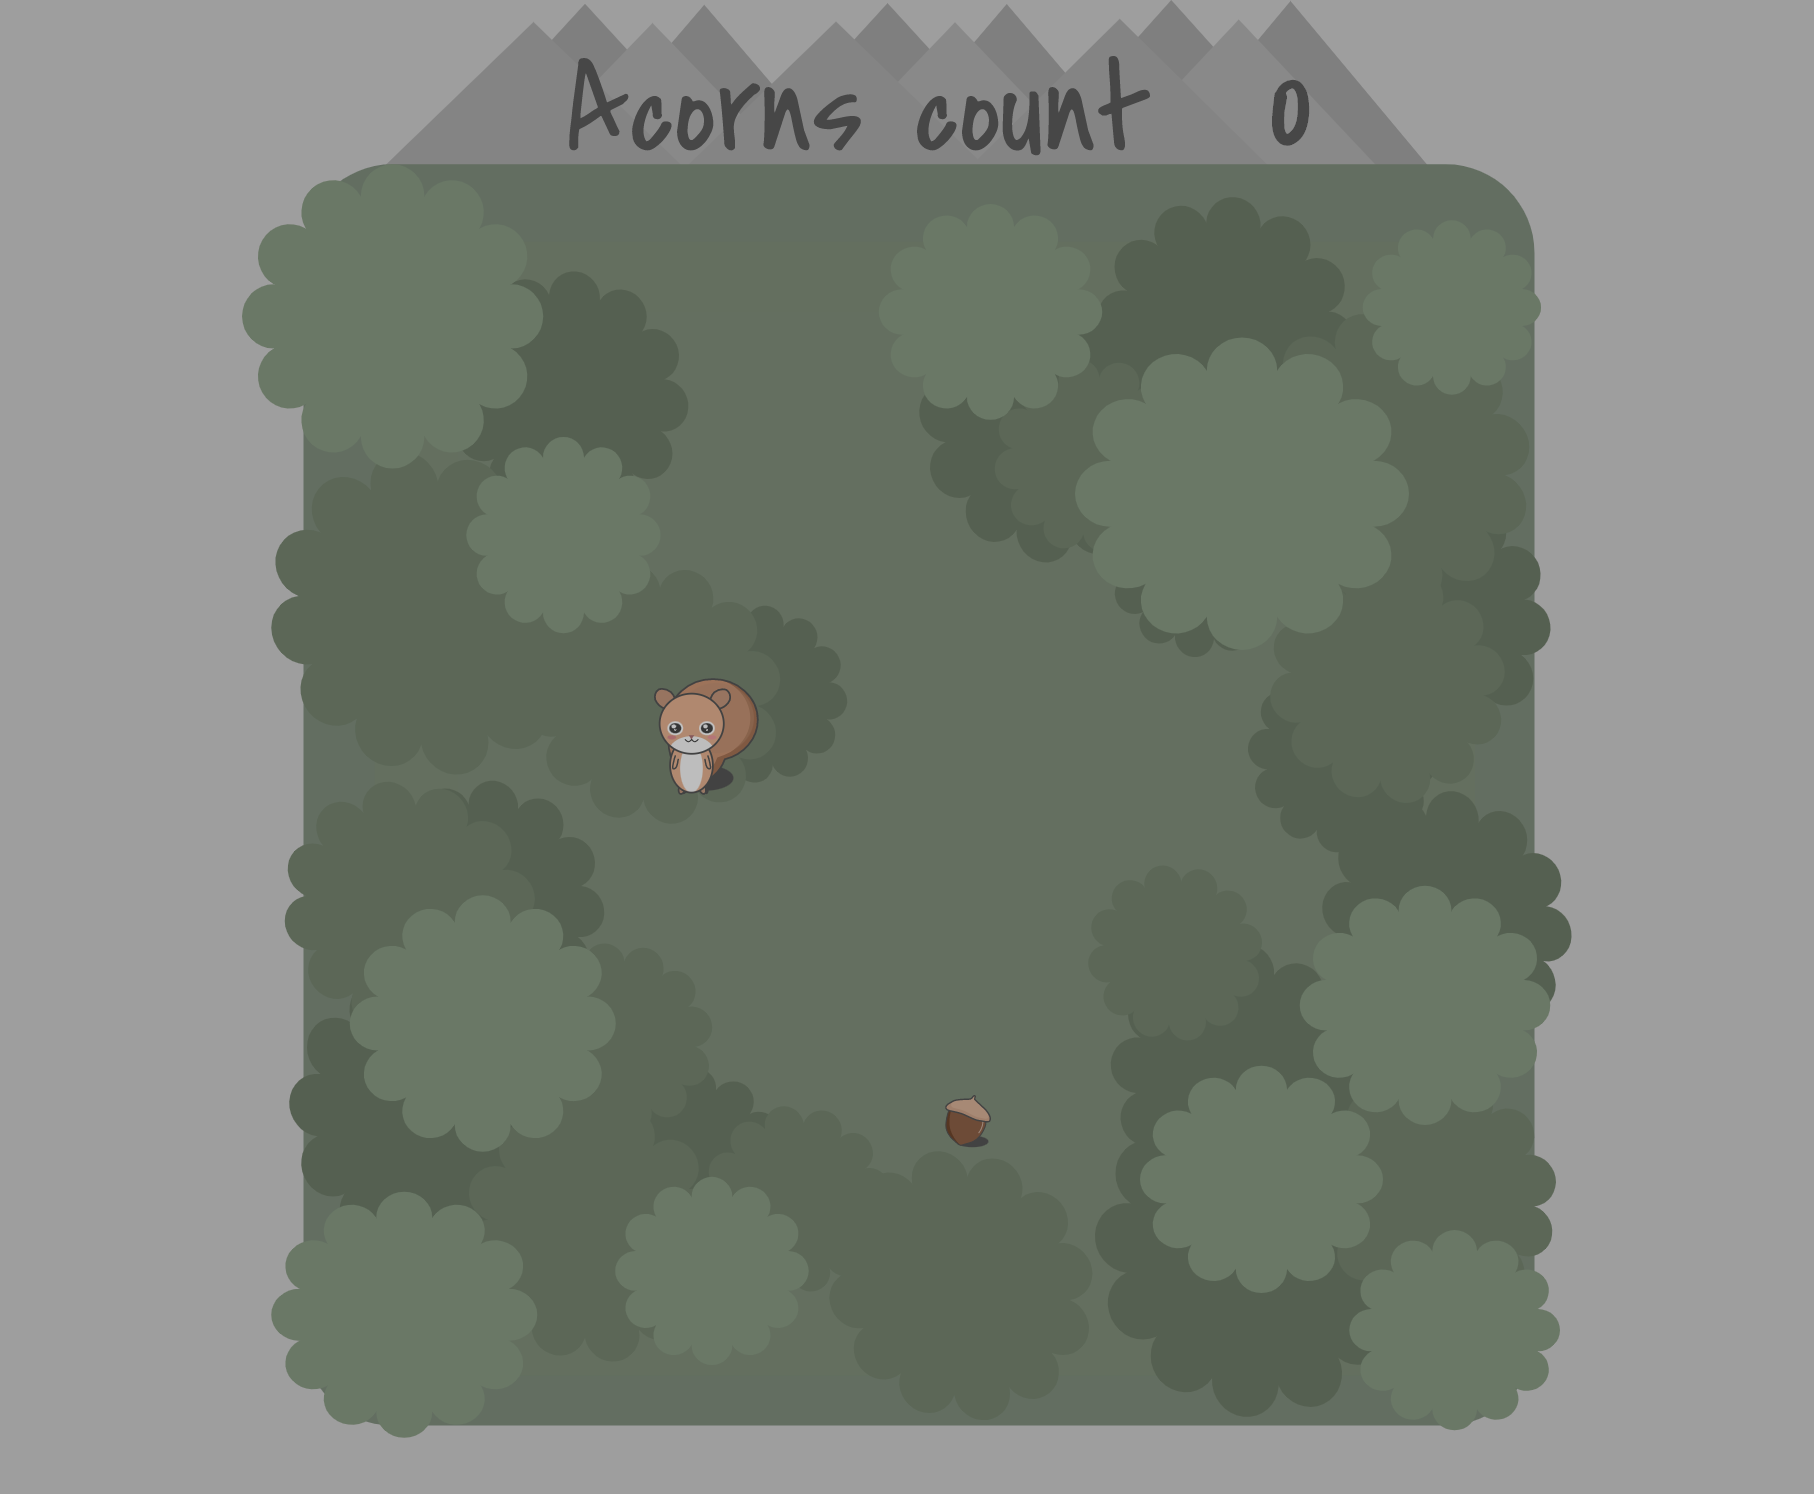
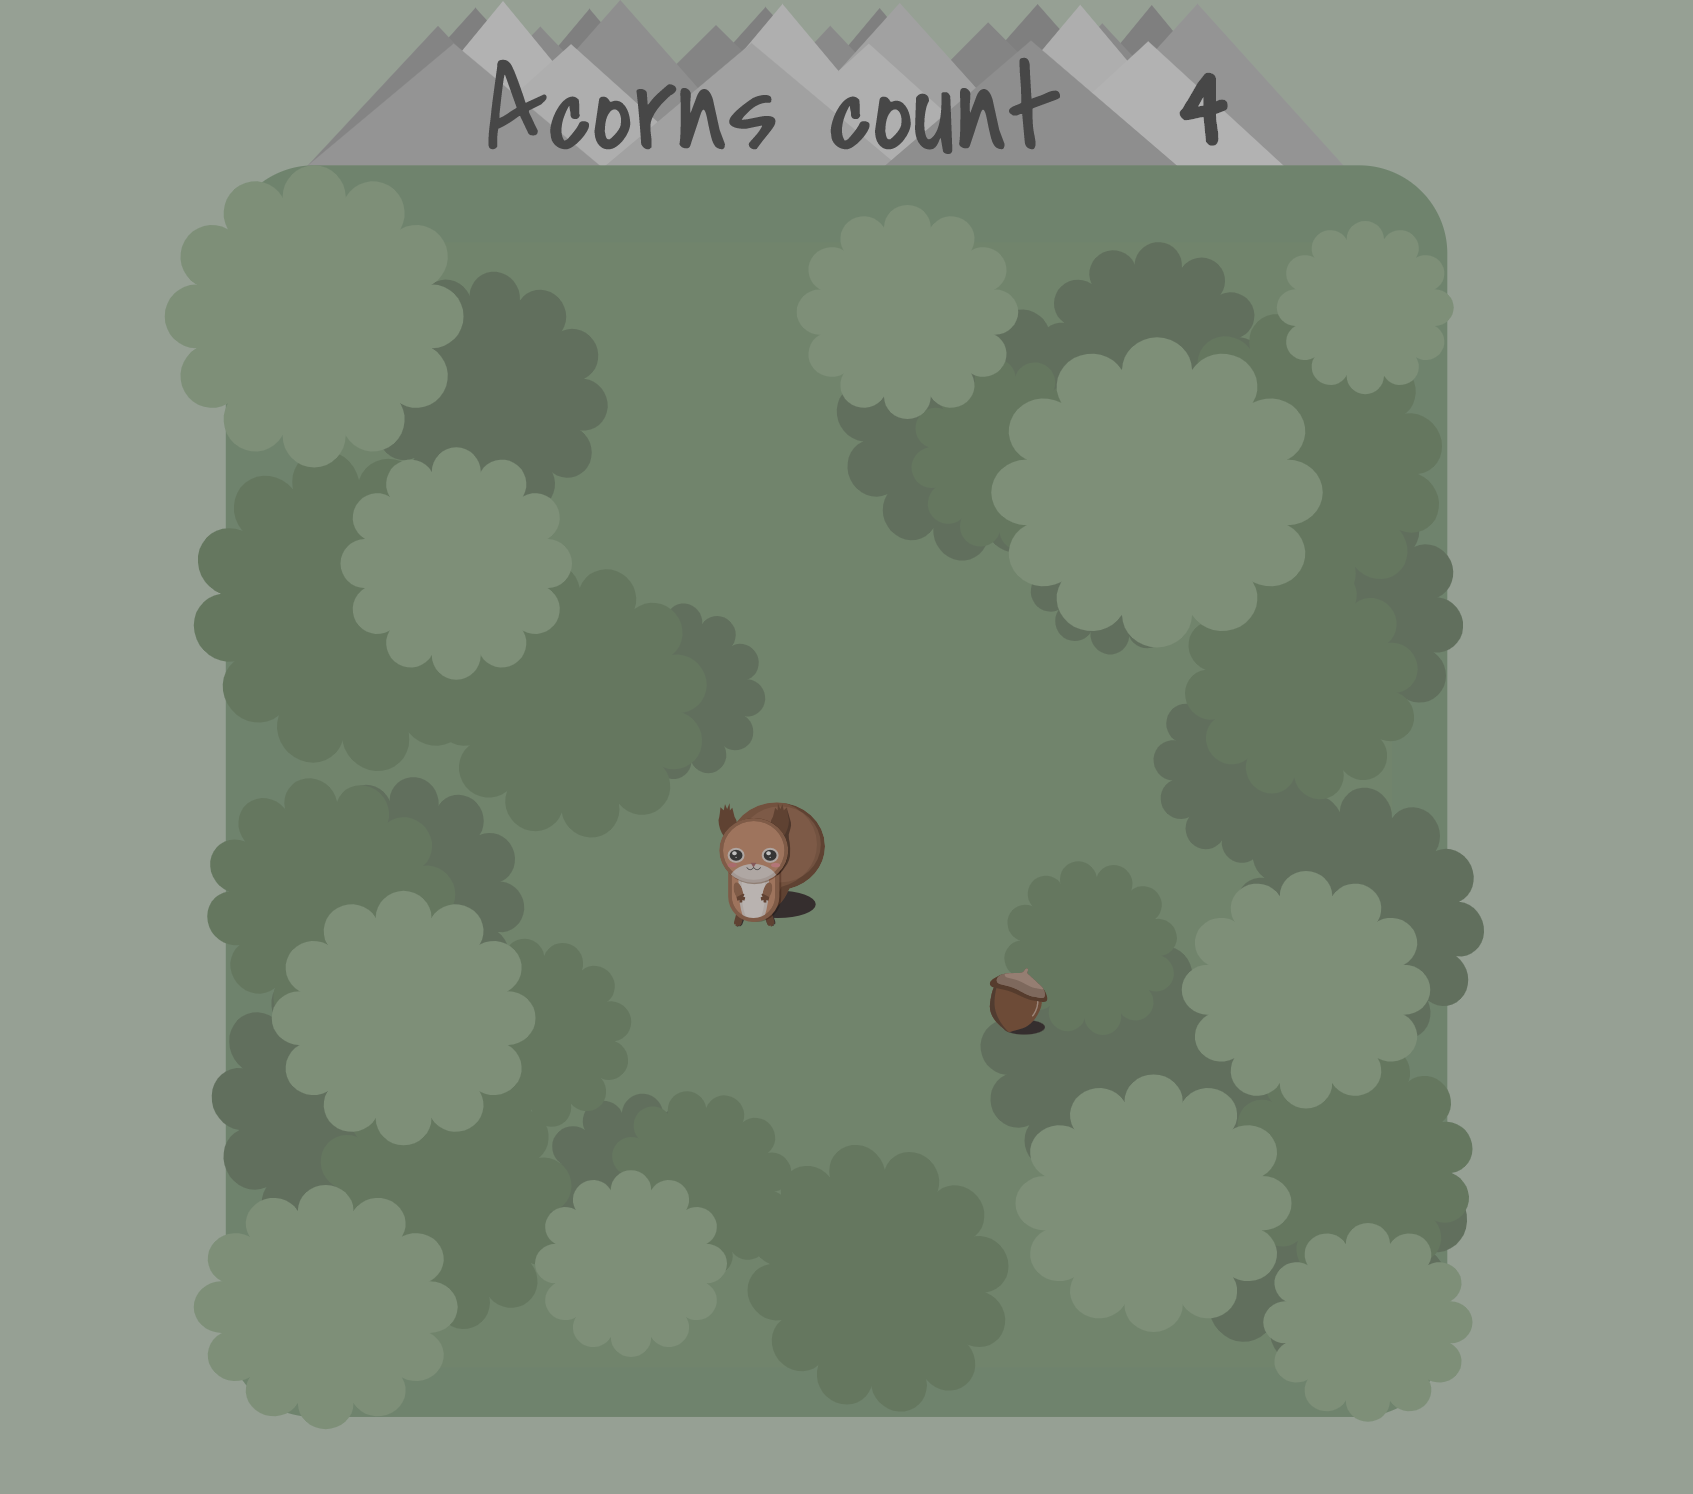
new graphics

diff --git a/css/style.css b/css/style.css
@@ -6,7 +6,7 @@
 :root {
   width:100%;
   height: 100%;
-  background-color: #9e9e9e;
+  background-color: #96A094;
   color: #474747;
   font-family: 'Covered By Your Grace', Helvetica, sans-serif;
 }
@@ -99,7 +99,7 @@ section#over {
 }
 
 .start {
-  background-color: grey;
+  background-color: #484848;
   border: none;
   border-radius: 11px;
   padding: 1rem 2rem;
